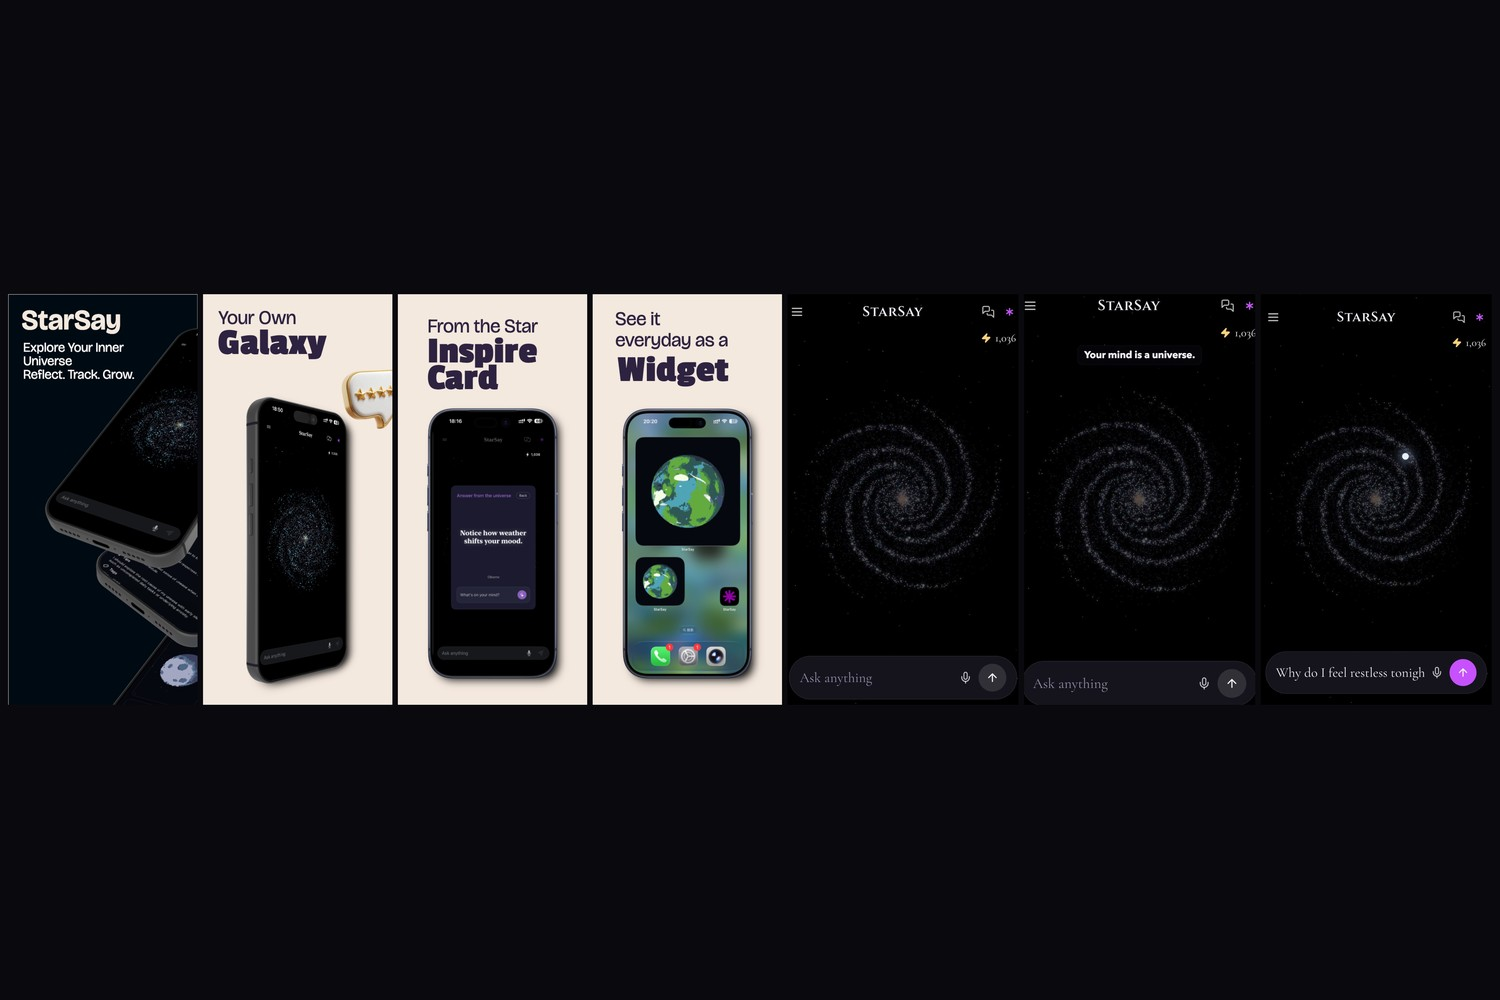
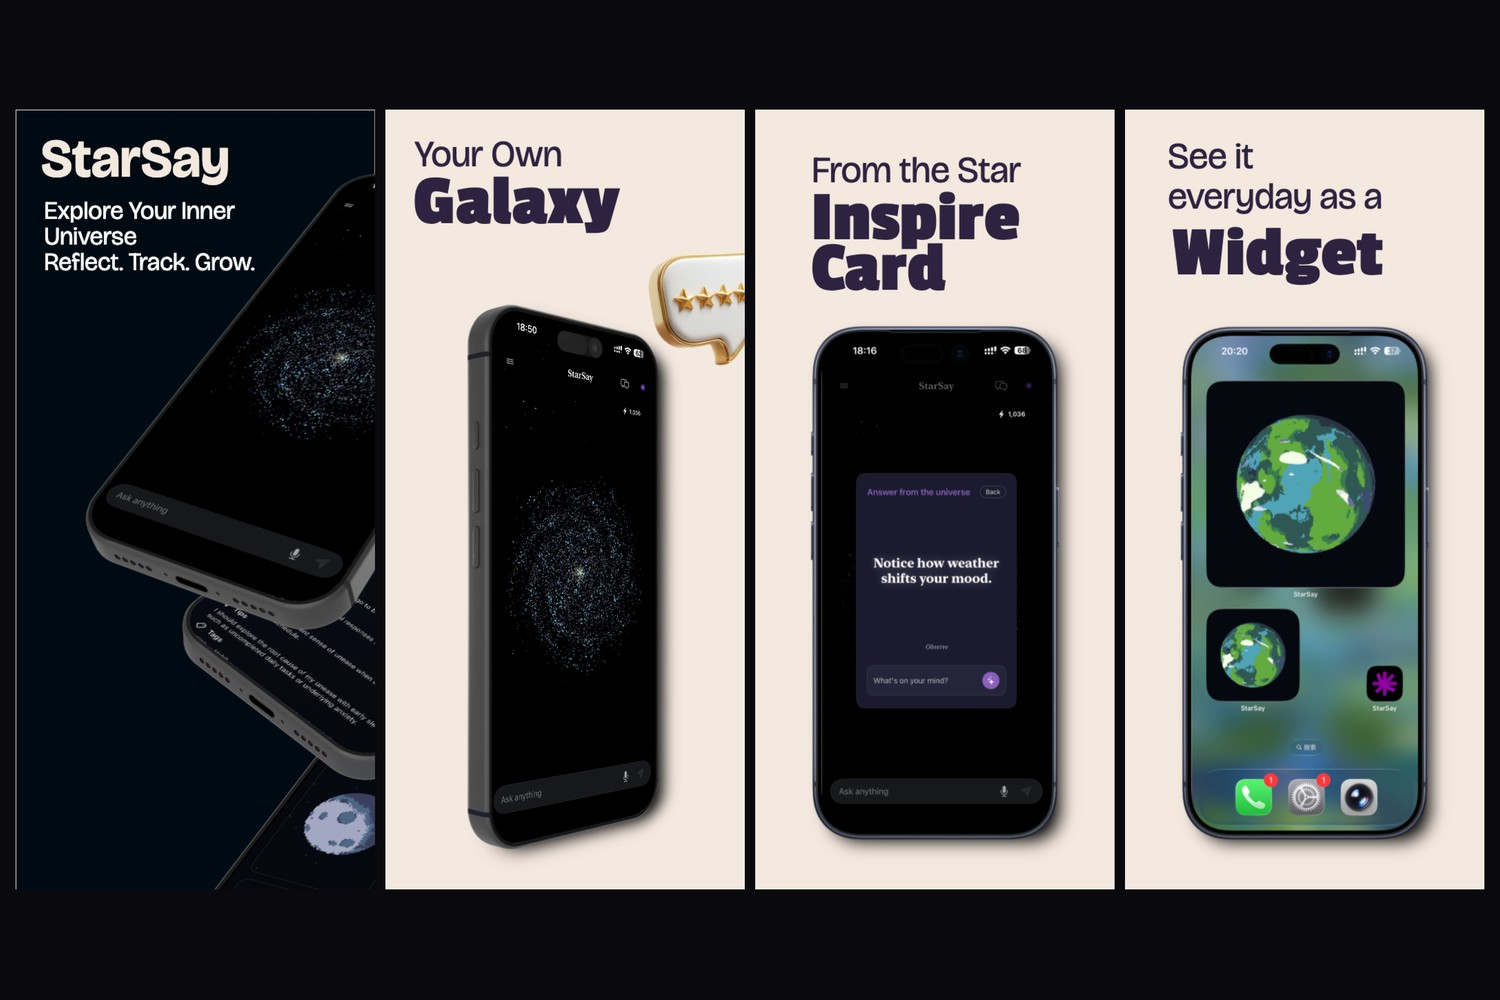
StarSay gallery: four-screen strip + three feature shots
Rebuild marketing strip from hero/galaxy/inspire/widget only.
Keep Planets, Awareness Feed, and 集星 simulator shots with
feature-led captions; drop inaccurate extras.

diff --git a/src/data/projects.ts b/src/data/projects.ts
@@ -59,30 +59,47 @@ export const projects: Project[] = [
     ],
     highlights: {
       zh: [
-        "Web 原型到全平台产品的完整迭代",
-        "自研星盘 / 星系可视化",
-        "Ask anything · Inspire Card · Widget 等产品面",
+        "Ask / Galaxy / Inspire / Widget 完整产品面",
+        "Planets · Awareness Feed · 集星 三条功能主线",
+        "Web 原型到 Web / iOS / Android 全平台",
       ],
       en: [
-        "Full path from web prototype to multi-platform",
-        "Custom star-chart / galaxy visualization",
-        "Ask anything, Inspire Card, Widget surfaces",
+        "Ask, Galaxy, Inspire, Widget product surfaces",
+        "Planets, Awareness Feed, and Stars as core loops",
+        "Web prototype to Web / iOS / Android",
       ],
     },
     year: "2024–",
     cover: "/covers/starsay-card.jpg",
     gallery: [
-      { src: "/covers/starsay/marketing-strip.jpg", caption: { zh: "营销图横拼", en: "Marketing strip" } },
-      { src: "/covers/starsay/hero.jpg", caption: { zh: "营销主视觉", en: "Marketing hero" } },
-      { src: "/covers/starsay/galaxy.jpg", caption: { zh: "Your Own Galaxy", en: "Your Own Galaxy" } },
-      { src: "/covers/starsay/inspire.jpg", caption: { zh: "Inspire Card", en: "Inspire Card" } },
-      { src: "/covers/starsay/widget.jpg", caption: { zh: "桌面小组件", en: "Widget" } },
-      { src: "/covers/starsay/sim-home.jpg", caption: { zh: "模拟器原版 · 首页", en: "Simulator · Home" } },
-      { src: "/covers/starsay/sim-planets.jpg", caption: { zh: "模拟器原版 · Planets", en: "Simulator · Planets" } },
-      { src: "/covers/starsay/sim-awareness.jpg", caption: { zh: "模拟器原版 · Awareness", en: "Simulator · Awareness" } },
-      { src: "/covers/starsay/sim-awareness-2.jpg", caption: { zh: "模拟器原版 · Awareness feed", en: "Simulator · Awareness feed" } },
-      { src: "/covers/starsay/sim-stars.jpg", caption: { zh: "模拟器原版 · 集星", en: "Simulator · Stars" } },
-      { src: "/covers/starsay/sim-stars-2.jpg", caption: { zh: "模拟器原版 · 星卡", en: "Simulator · Star cards" } },
+      {
+        src: "/covers/starsay/marketing-strip.jpg",
+        caption: {
+          zh: "产品全貌 · Ask / Galaxy / Inspire / Widget 一眼看清",
+          en: "Overview · Ask, Galaxy, Inspire, Widget at a glance",
+        },
+      },
+      {
+        src: "/covers/starsay/sim-planets.jpg",
+        caption: {
+          zh: "Planets · 用星系选主题，探索你的内在宇宙",
+          en: "Planets · Browse themes as a personal cosmos",
+        },
+      },
+      {
+        src: "/covers/starsay/sim-awareness.jpg",
+        caption: {
+          zh: "Awareness Feed · 想法与情绪沉淀成可回看的觉察流",
+          en: "Awareness Feed · Thoughts and feelings as a living stream",
+        },
+      },
+      {
+        src: "/covers/starsay/sim-stars.jpg",
+        caption: {
+          zh: "集星 · 把洞察收成星卡，随时回看与检索",
+          en: "Stars · Collect insights as star cards you can revisit",
+        },
+      },
     ],
   },
   {
